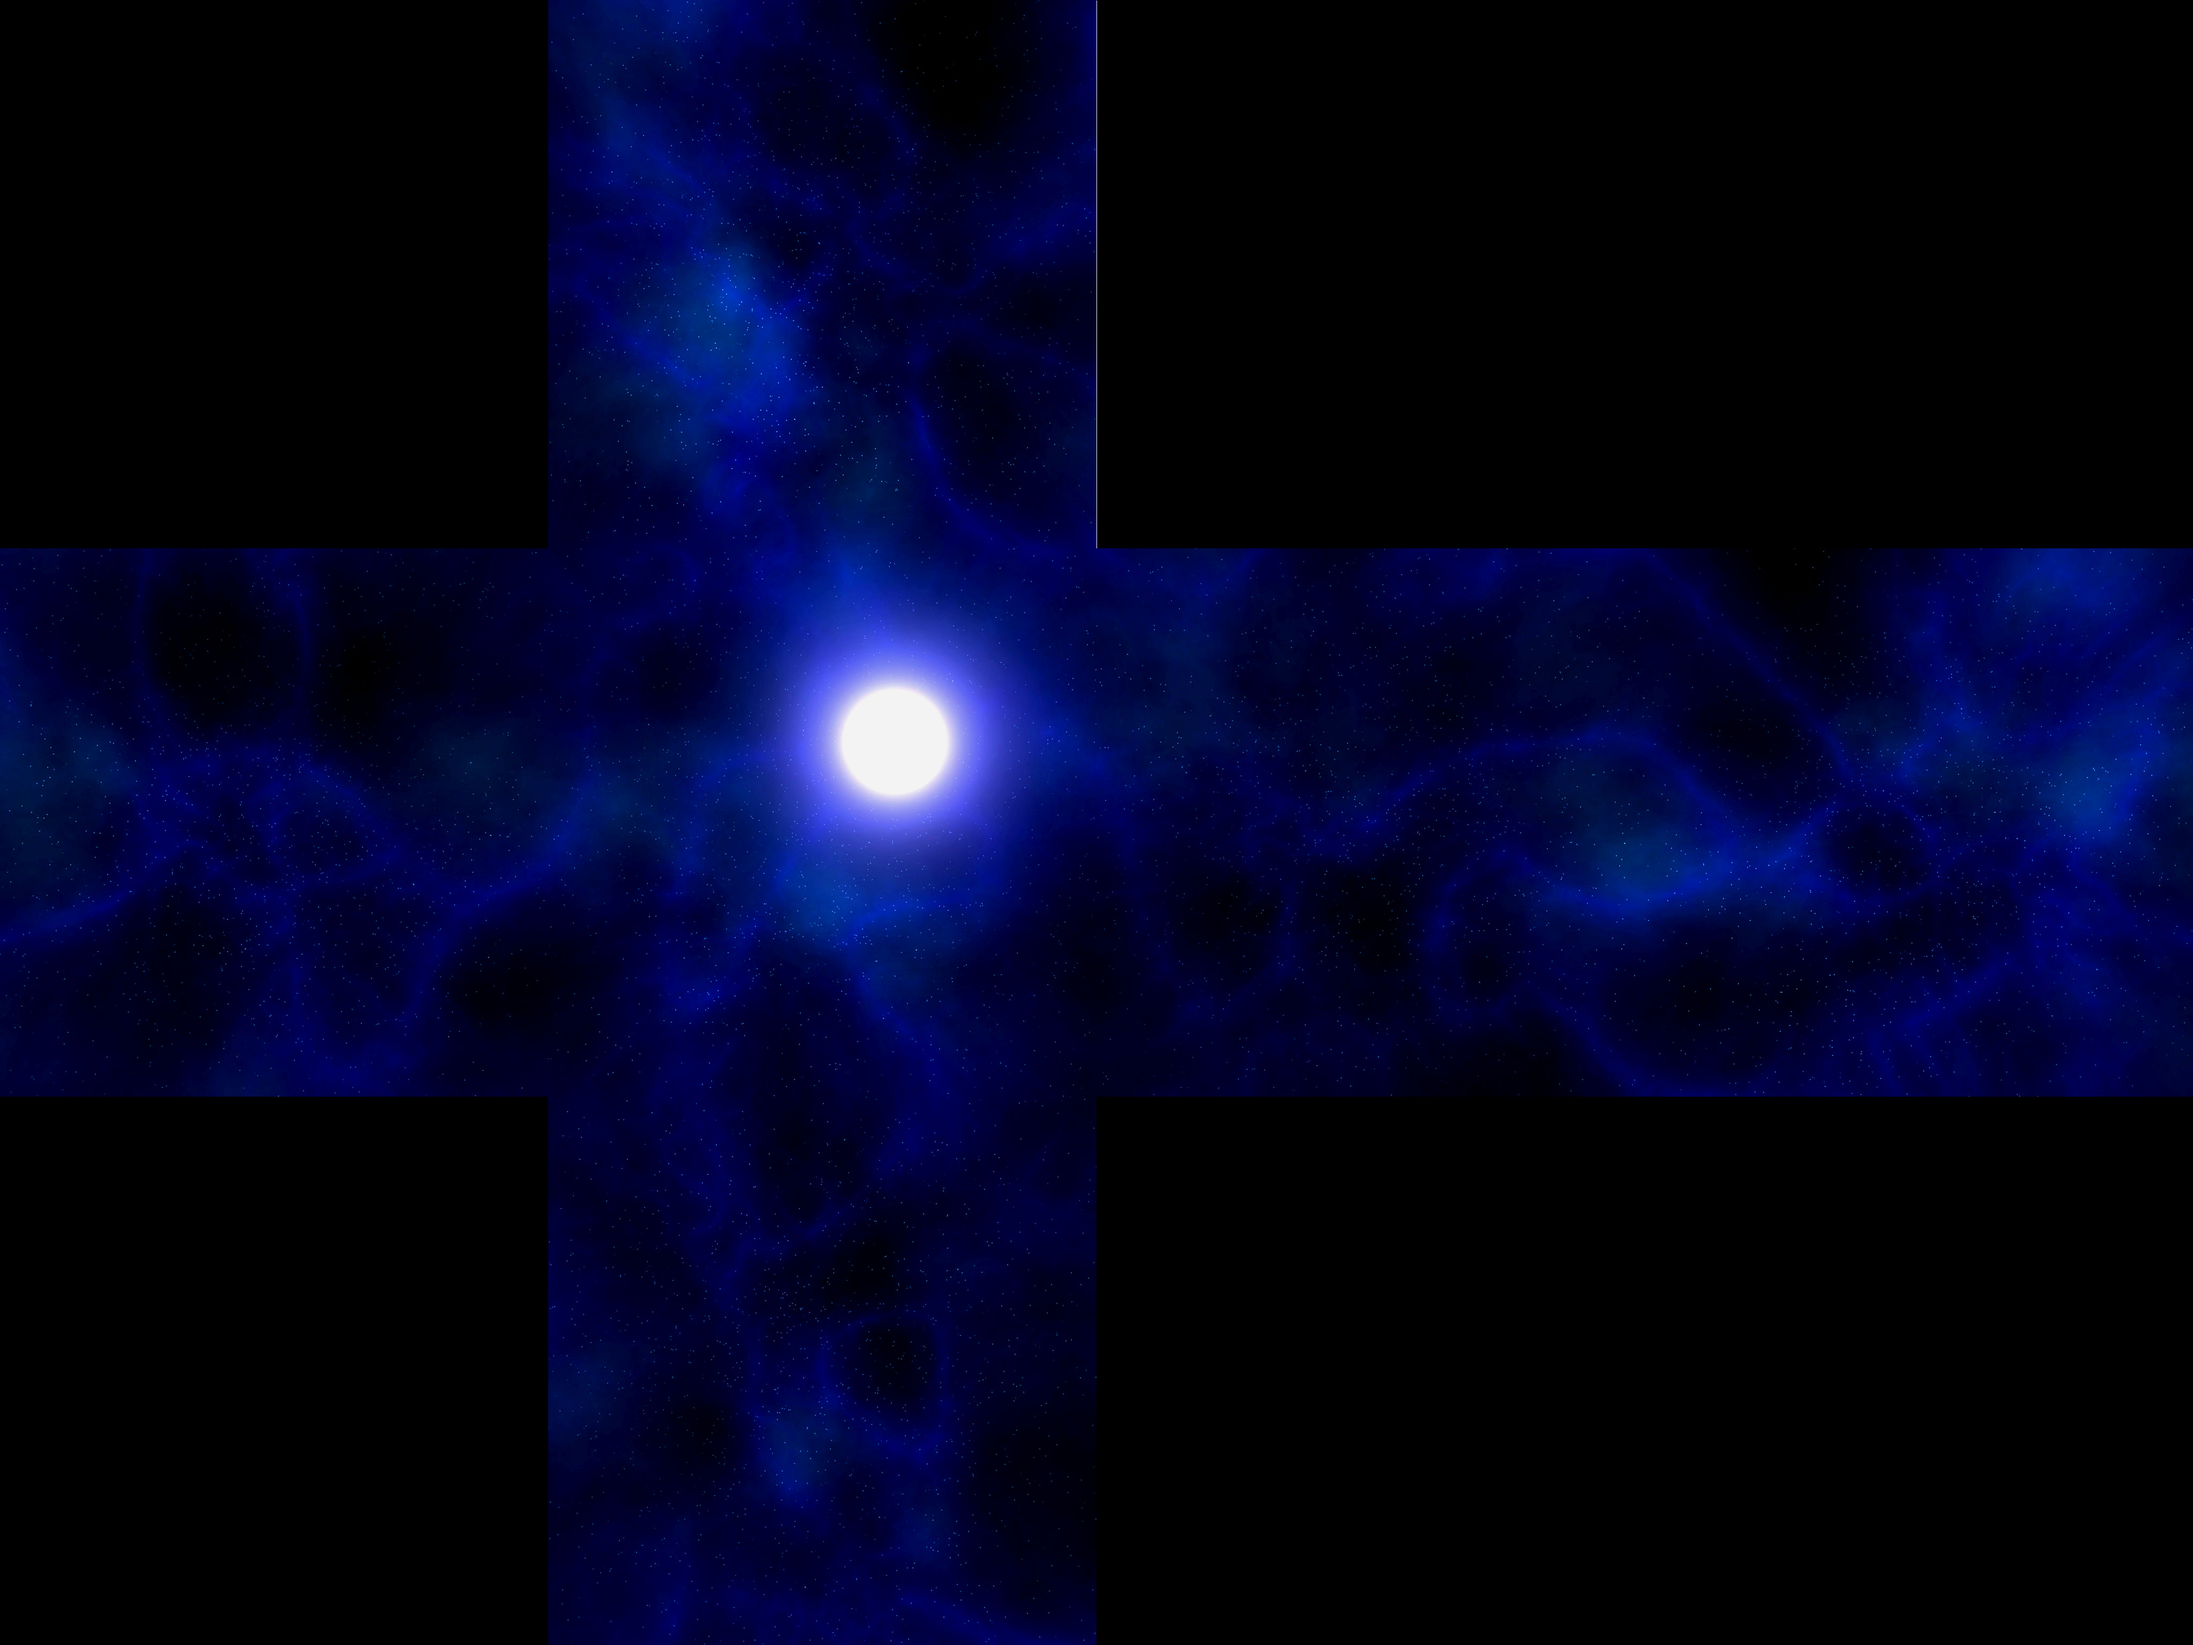
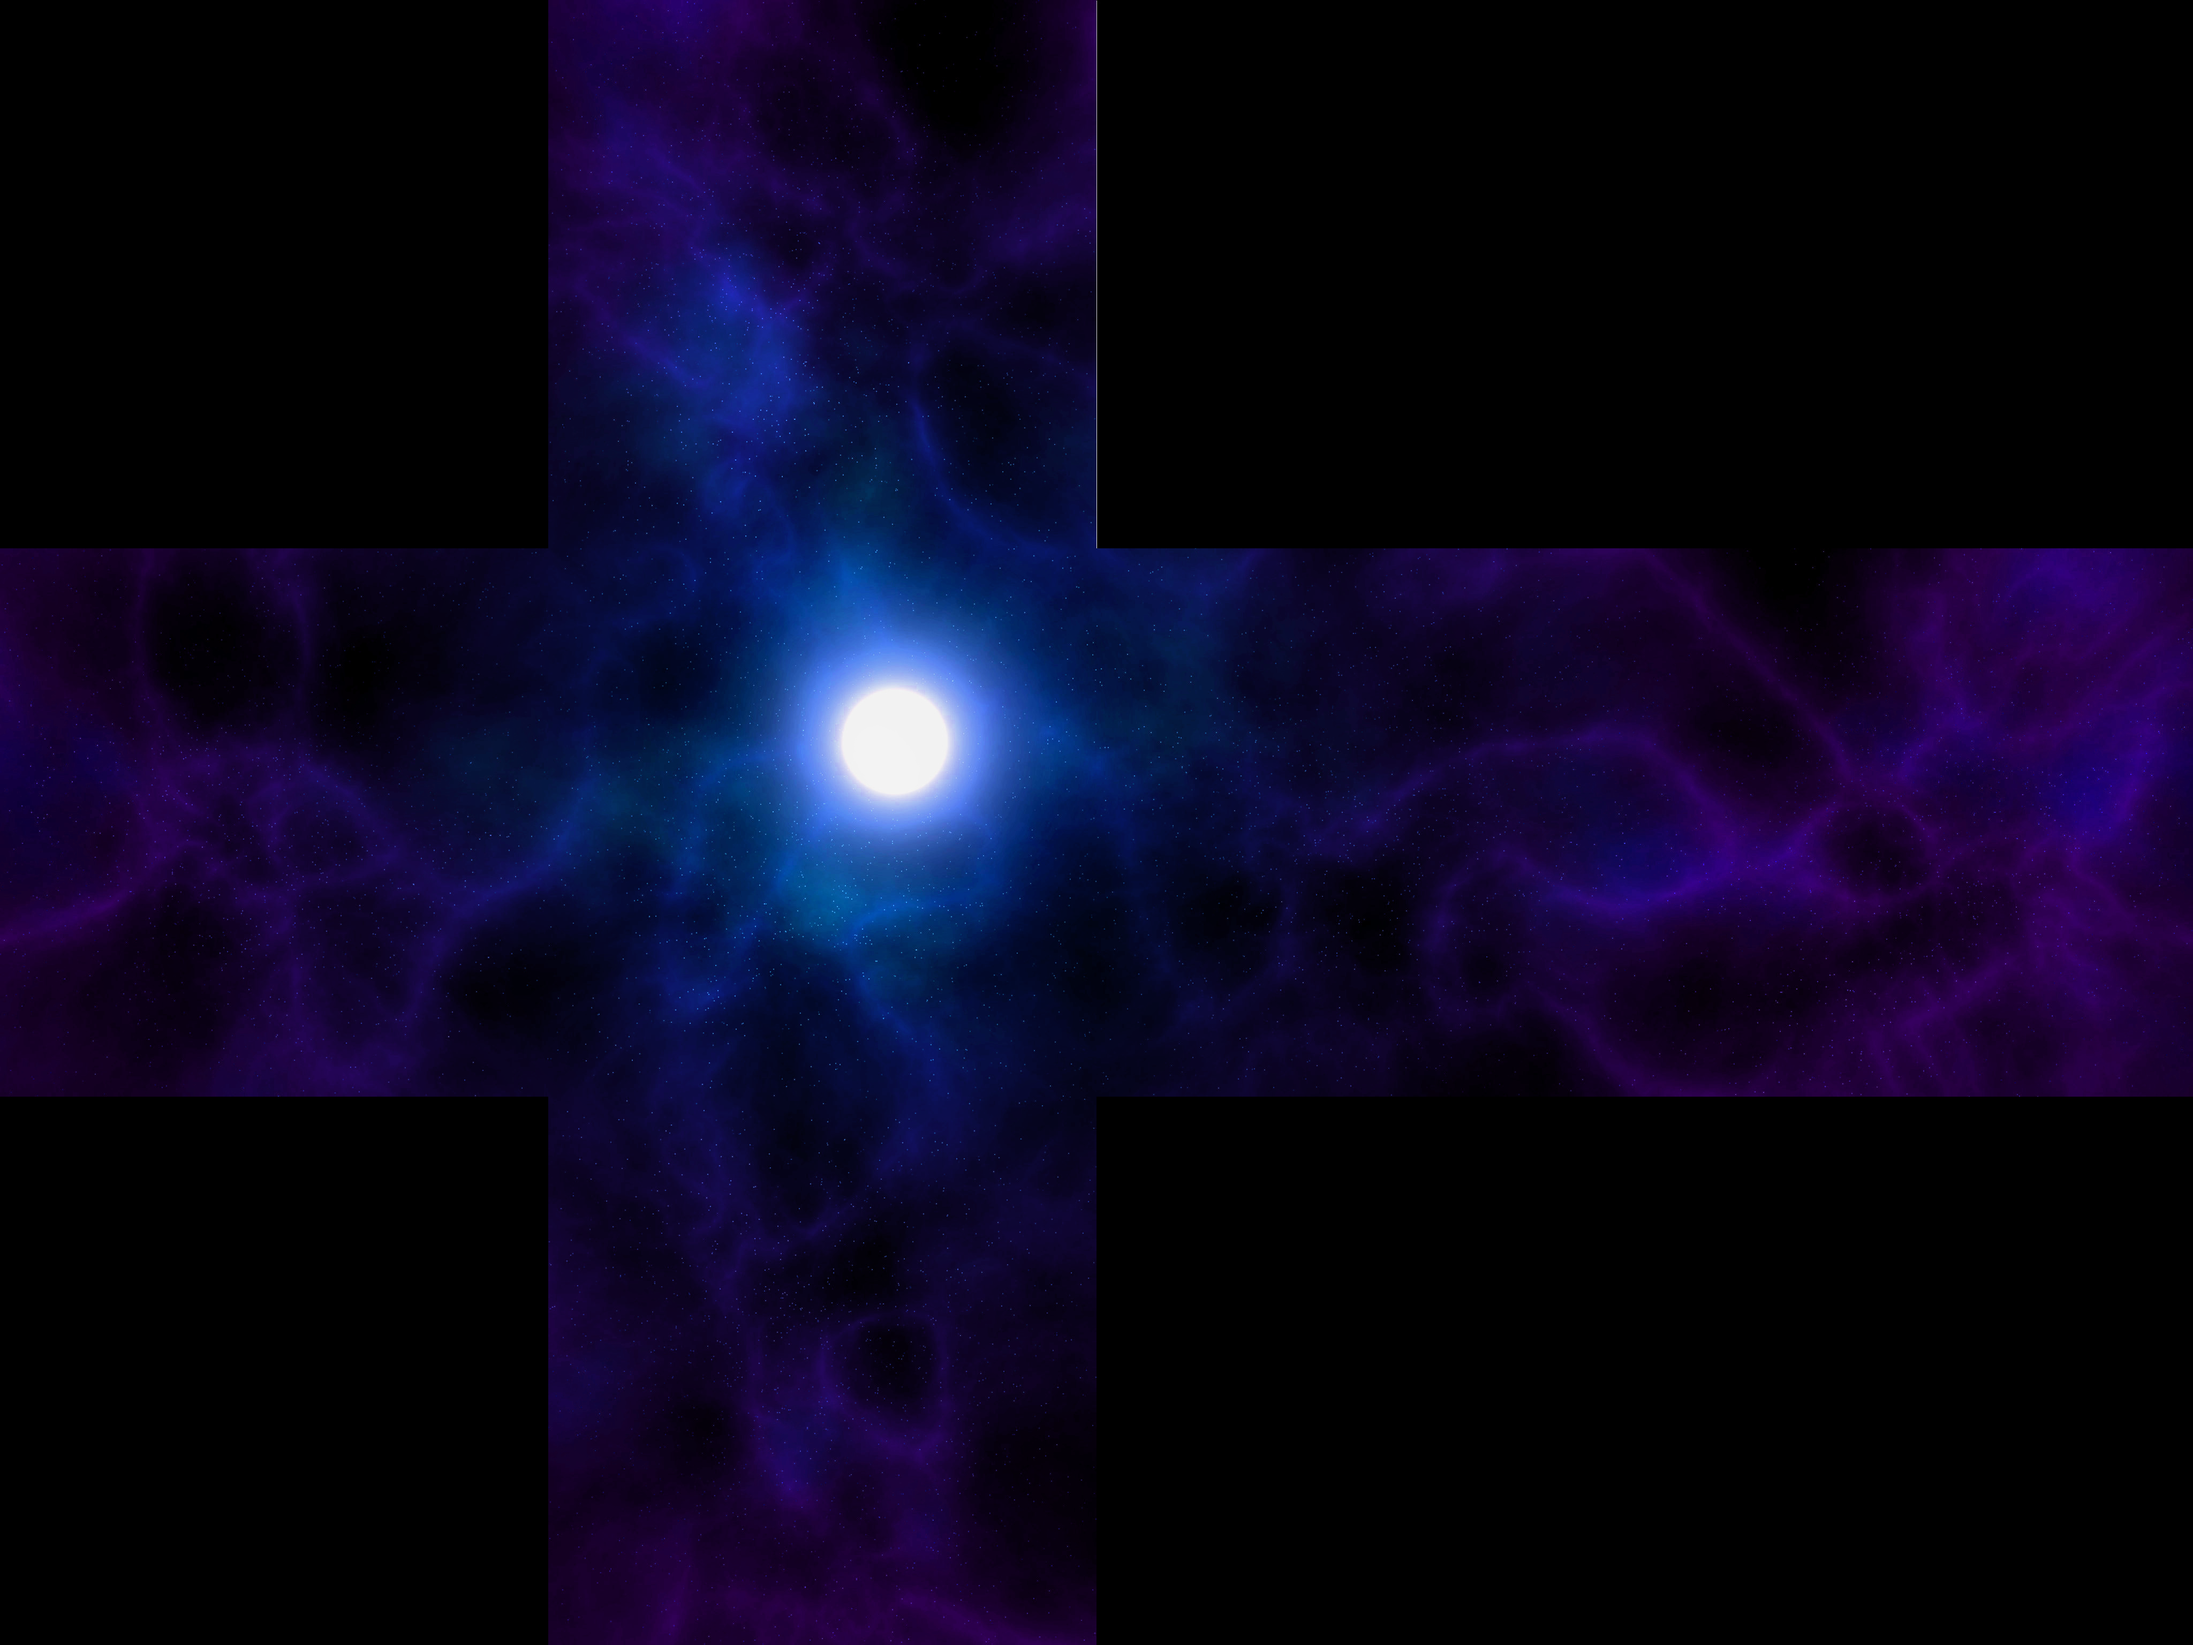
Improve ambient

diff --git a/core/src/nl/fontys/scope/graphics/RenderManager.java b/core/src/nl/fontys/scope/graphics/RenderManager.java
@@ -33,9 +33,8 @@ public class RenderManager {
 
     public RenderManager(LightingManager lightingManager) {
         this.lightingManager = lightingManager;
-        lightingManager.setAmbientLight(0.05f, 0.1f, 0.3f, 1f);
-        lightingManager.addDirectionalLight("9812098109830983", new DirectionalLight().set(0.0f, 0.4f, 1.0f, -1f, -0.2f, -0.5f));
-        lightingManager.addDirectionalLight("9wfewefwefwfeww3", new DirectionalLight().set(0.3f, 0.2f, 0.1f, 1f, 0.2f, 0.5f));
+        lightingManager.setAmbientLight(0.2f, 0.00f, 0.3f, 1f);
+        lightingManager.addDirectionalLight("9812098109830983", new DirectionalLight().set(0.0f, 0.3f, 1.0f, -1f, -0.2f, -0.5f));
         TextureData data = AssetManager.getTexture(Assets.Textures.CUBEMAP_SPACE_1).getTextureData();
         data.prepare();
         cubemap = new EnvironmentCubemap(data.consumePixmap());

diff --git a/core/src/nl/fontys/scope/screens/IngameScreen.java b/core/src/nl/fontys/scope/screens/IngameScreen.java
@@ -44,12 +44,10 @@ public class IngameScreen implements Screen {
 
         GameObject planet = world.createGameObject();
         planet.setType(GameObjectType.PLANET);
-        planet.setScale(200f);
-        world.addController(planet, new PlanetController(1000f));
+        planet.setScale(20f);
+        world.addController(planet, new PlanetController(100f));
         SecureRandom random = new SecureRandom(UUID.randomUUID().toString().getBytes());
-        for (int i = 0; i < 4; ++i) {
-            factory.createEnergy(random.nextFloat() * 300f - 100f, random.nextFloat() * 300f - 100f, random.nextFloat() * 300f - 100f);
-        }
+        factory.createEnergy(random.nextFloat() * 50f - 50f, random.nextFloat() * 50f - 50f, random.nextFloat() * 50f - 50f);
 
     }
 

diff --git a/core/src/nl/fontys/scope/core/controller/ShipController.java b/core/src/nl/fontys/scope/core/controller/ShipController.java
@@ -8,7 +8,7 @@ import nl.fontys.scope.object.GameObject;
 
 public class ShipController implements GameObjectController, Moveable {
 
-    public static final float SPEED = 3.4f;
+    public static final float SPEED = 0.4f;
 
     private Vector3 accel = new Vector3();
 
